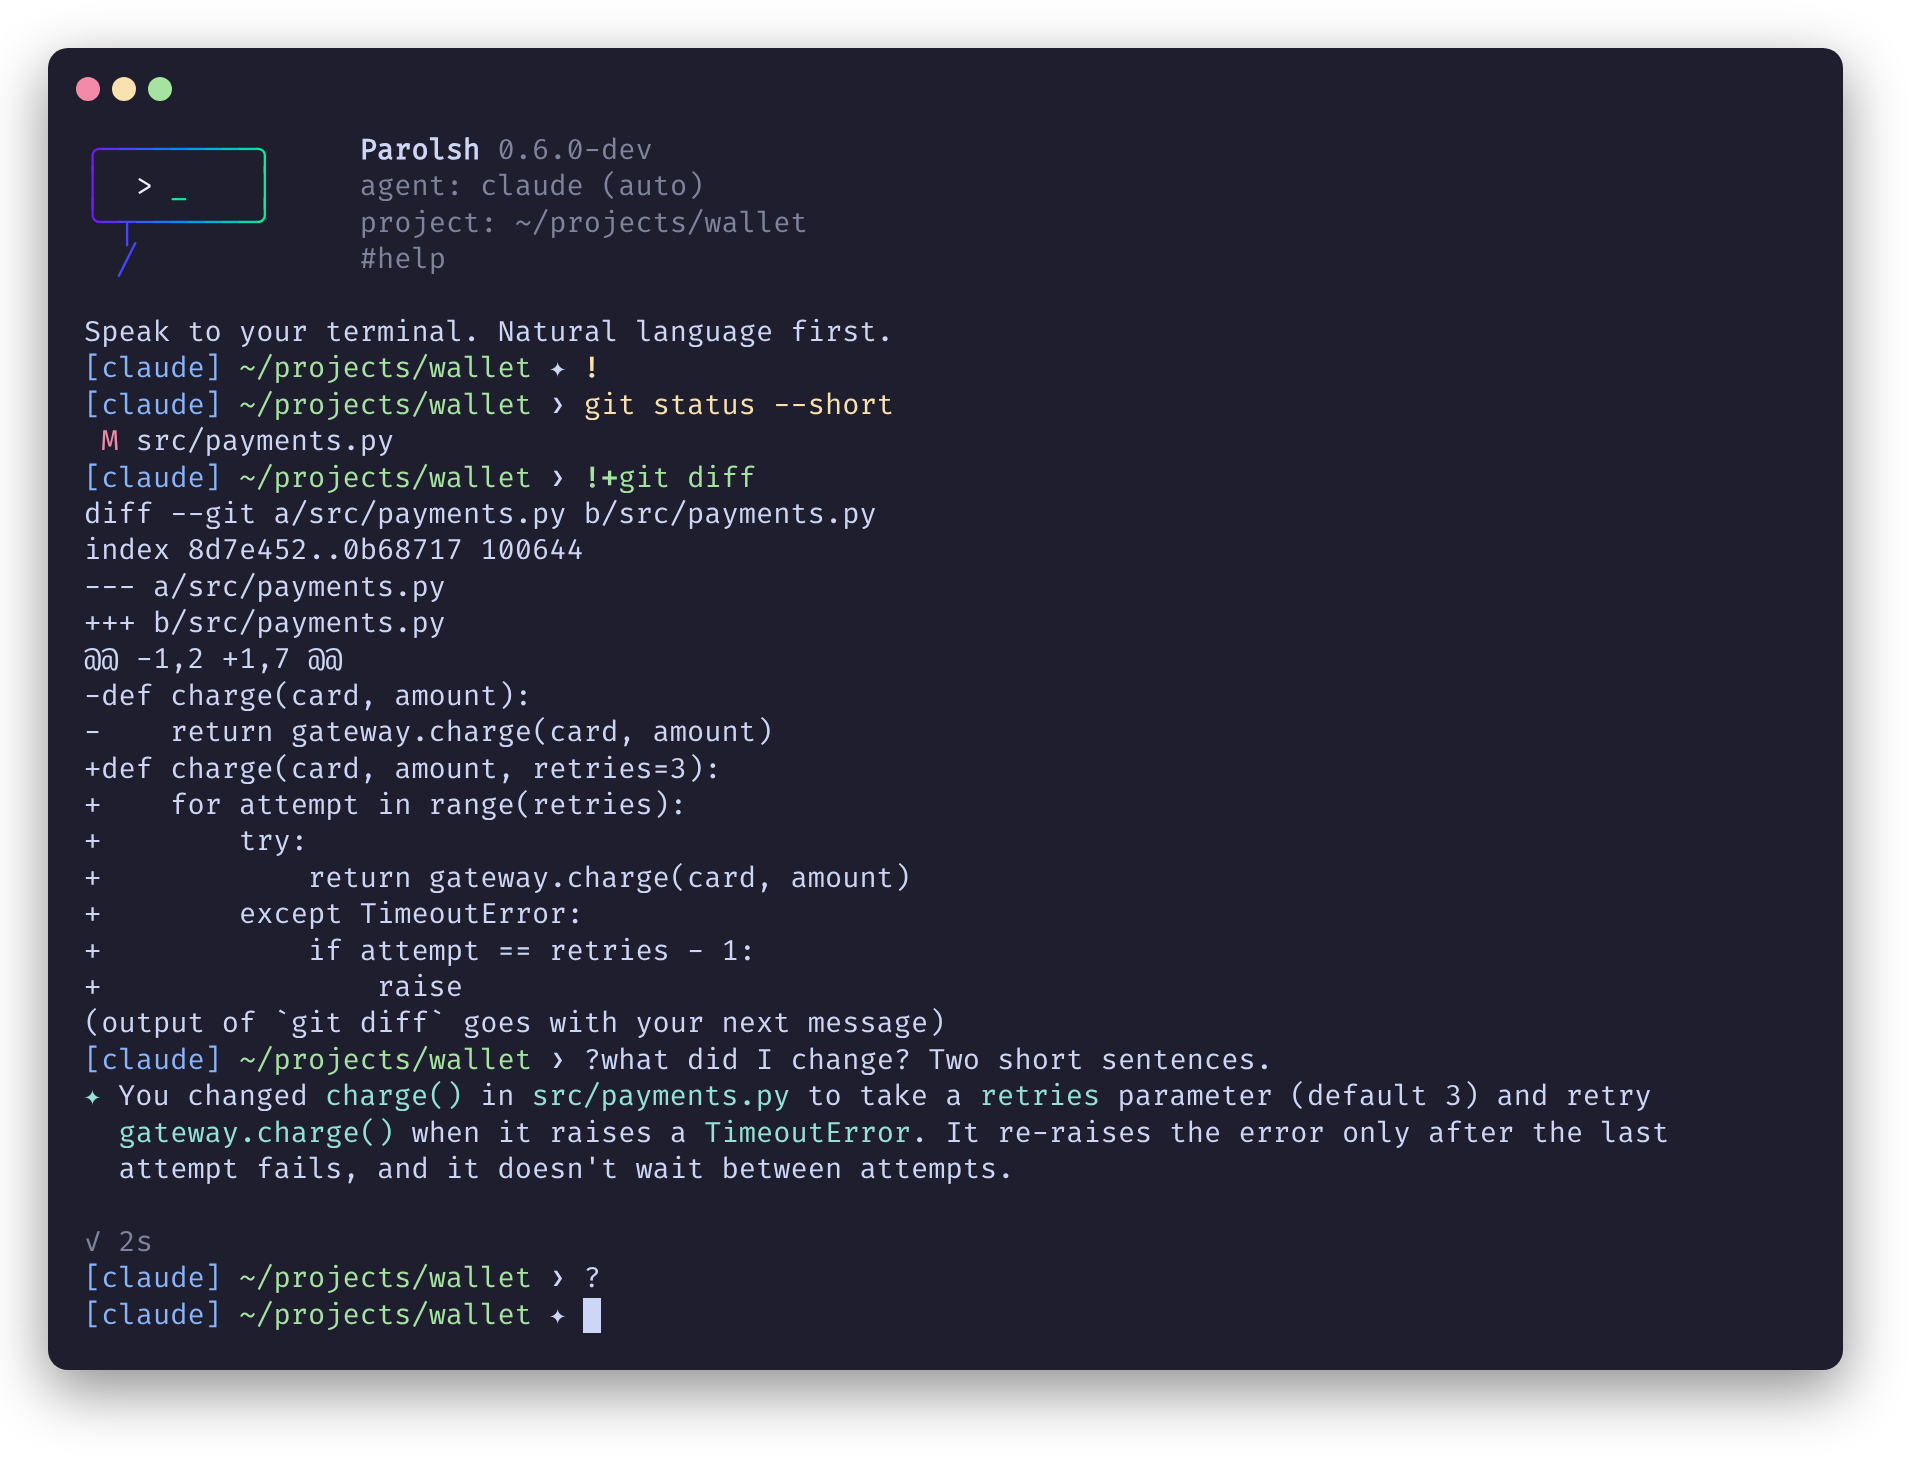
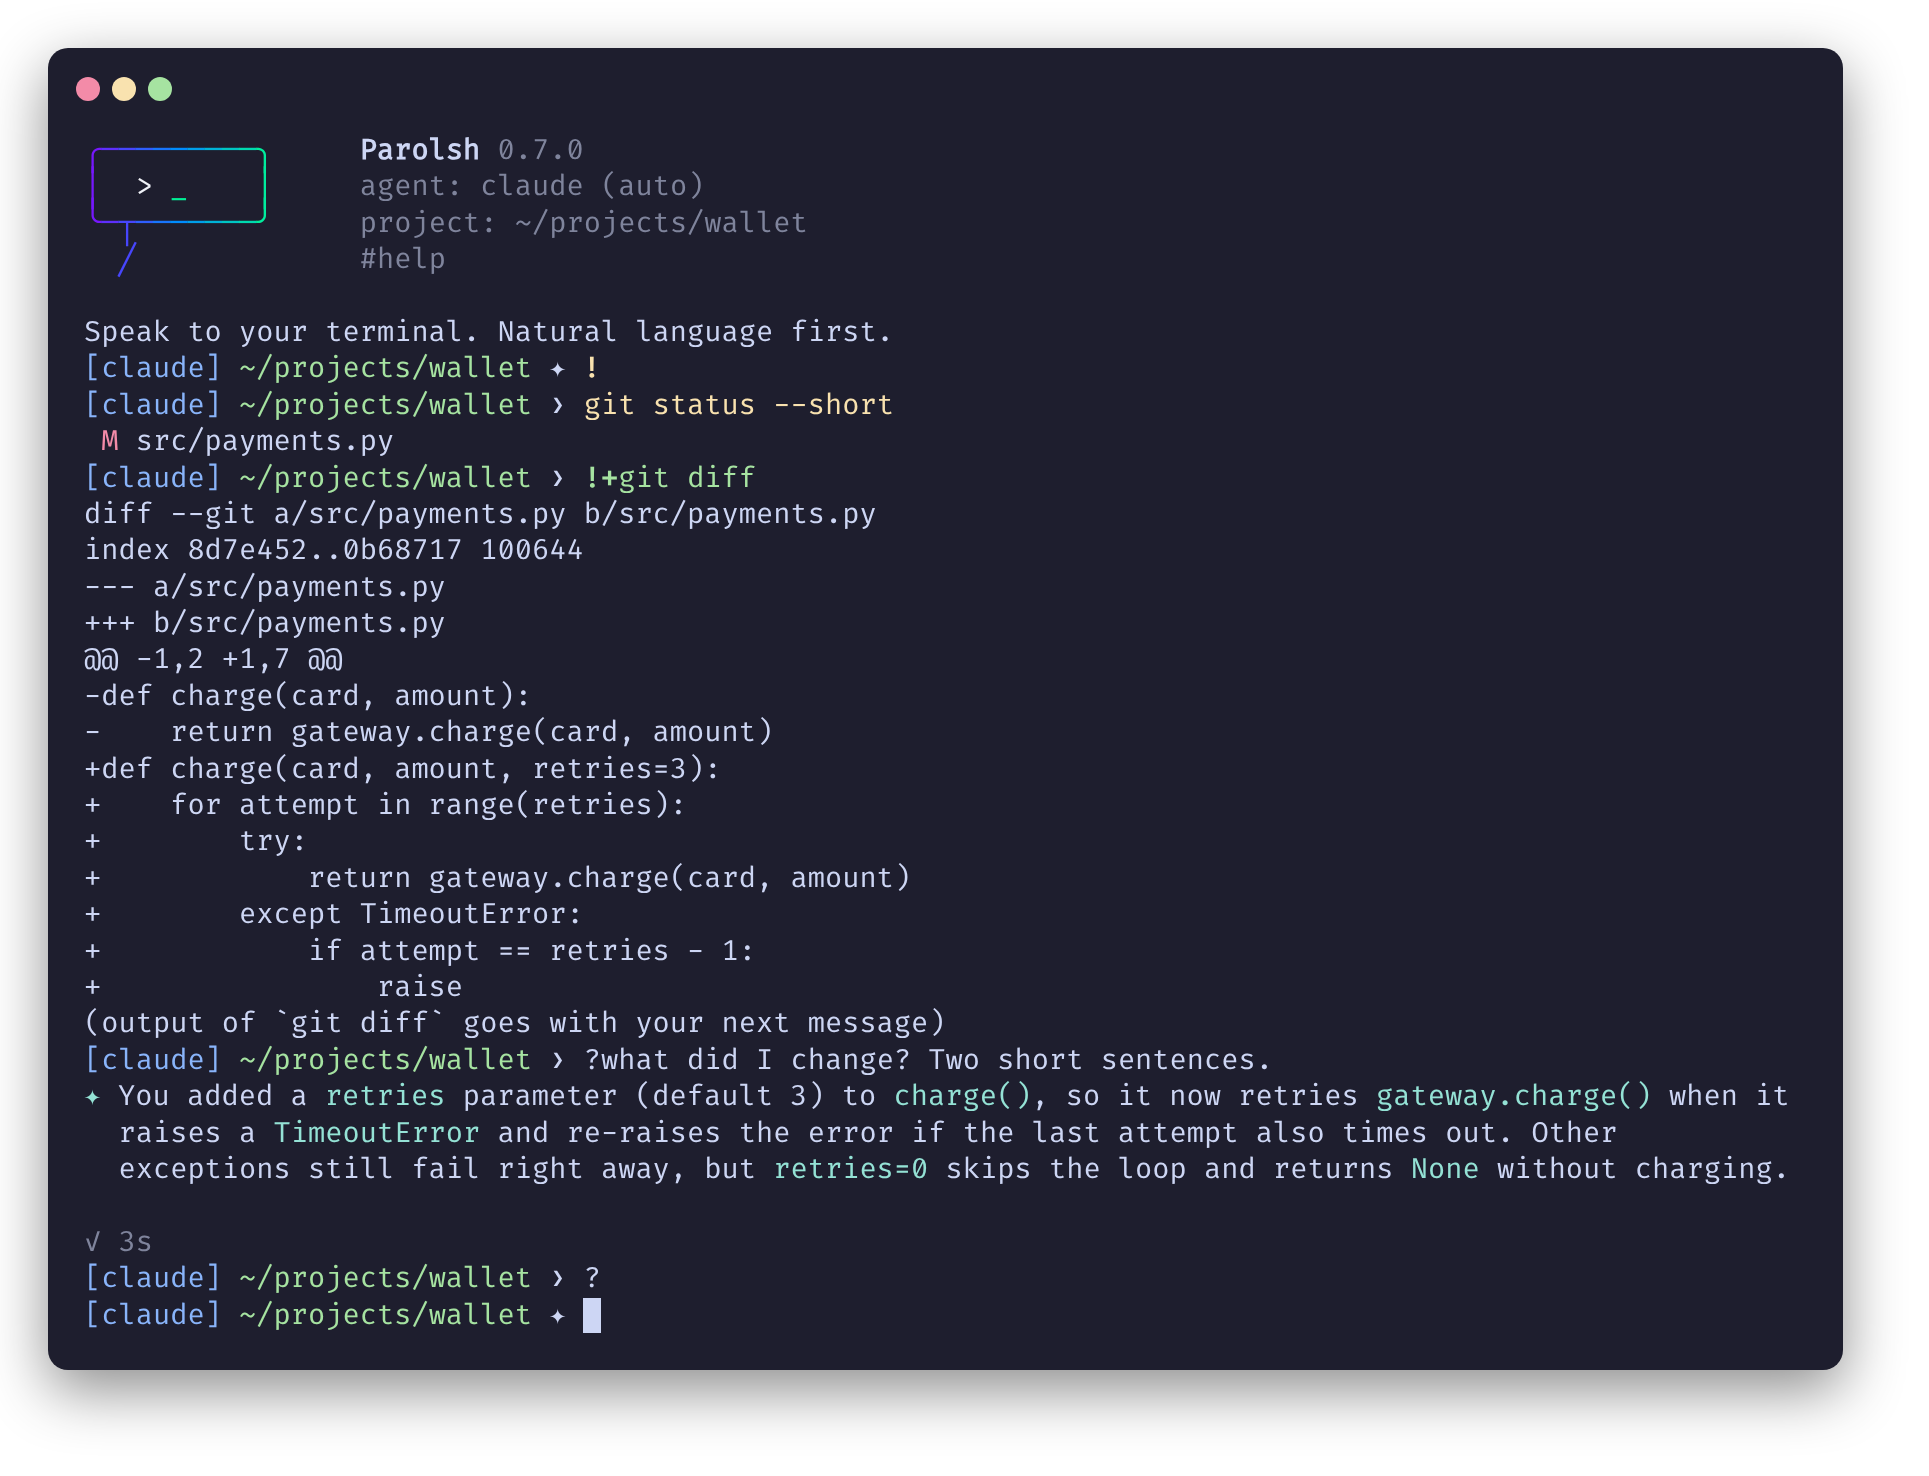
Regenerate the session screenshot from a build of the release
scripts/screenshot.py gets --parolsh BINARY, to run a given build
instead of building this tree: a tree that is not a clean checkout of
the release's tag says "-dev" in its banner, and the screenshot showed
"0.6.0-dev". This one is from a build of a copy tagged v0.7.0.

Changed region(s): [[0.0622, 0.7168, 0.9331, 0.8103], [0.311, 0.0935, 0.3421, 0.1247]]

diff --git a/scripts/screenshot.py b/scripts/screenshot.py
@@ -10,7 +10,11 @@ git repository at ~/projects/wallet (a temporary HOME), with the real
 `claude-agent-acp`. Types the lines in SESSION, waits for each to finish,
 and renders the screen with headless Chrome.
 
-Usage: scripts/screenshot.py [--agent COMMAND] [--out PATH]
+Usage: scripts/screenshot.py [--agent COMMAND] [--out PATH] [--parolsh BINARY]
+
+Without --parolsh, this tree is built: unless it is a clean checkout of the
+release's tag, its banner says `-dev`. Give a build of the tag to show the
+release's version.
 
 Needs uv, cargo, git, Google Chrome and a logged-in agent. The agent keeps
 your real HOME, so its login works; everything else sees the temporary one.
@@ -221,10 +225,14 @@ def main():
     parser = argparse.ArgumentParser(description=__doc__.splitlines()[0])
     parser.add_argument("--agent", default="claude-agent-acp", help="ACP agent command")
     parser.add_argument("--out", default=ROOT / "docs" / "images" / "shell-mode.png", type=Path)
+    parser.add_argument("--parolsh", type=Path, help="the binary to run, instead of building this tree")
     args = parser.parse_args()
 
-    subprocess.run(["cargo", "build", "--quiet"], cwd=ROOT, check=True)
-    parolsh = str(ROOT / "target" / "debug" / "parolsh")
+    if args.parolsh:
+        parolsh = str(args.parolsh.resolve())
+    else:
+        subprocess.run(["cargo", "build", "--quiet"], cwd=ROOT, check=True)
+        parolsh = str(ROOT / "target" / "debug" / "parolsh")
     with tempfile.TemporaryDirectory() as tmp:
         tmp = Path(tmp)
         home = tmp / "home"
